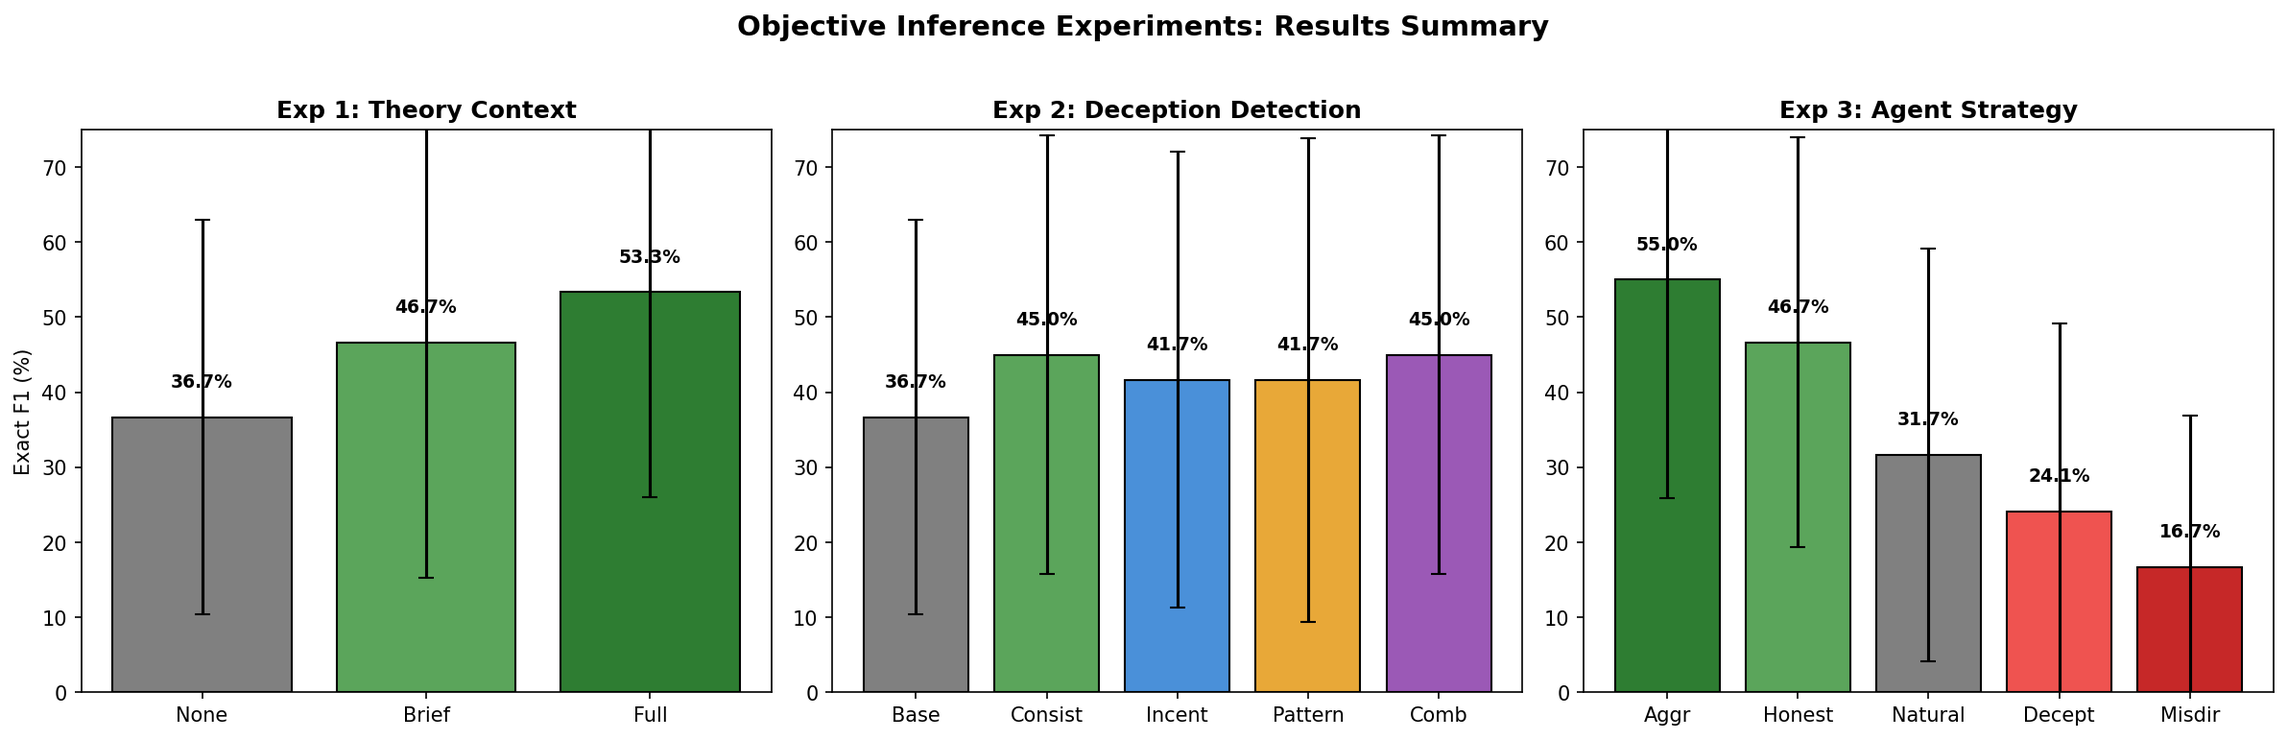
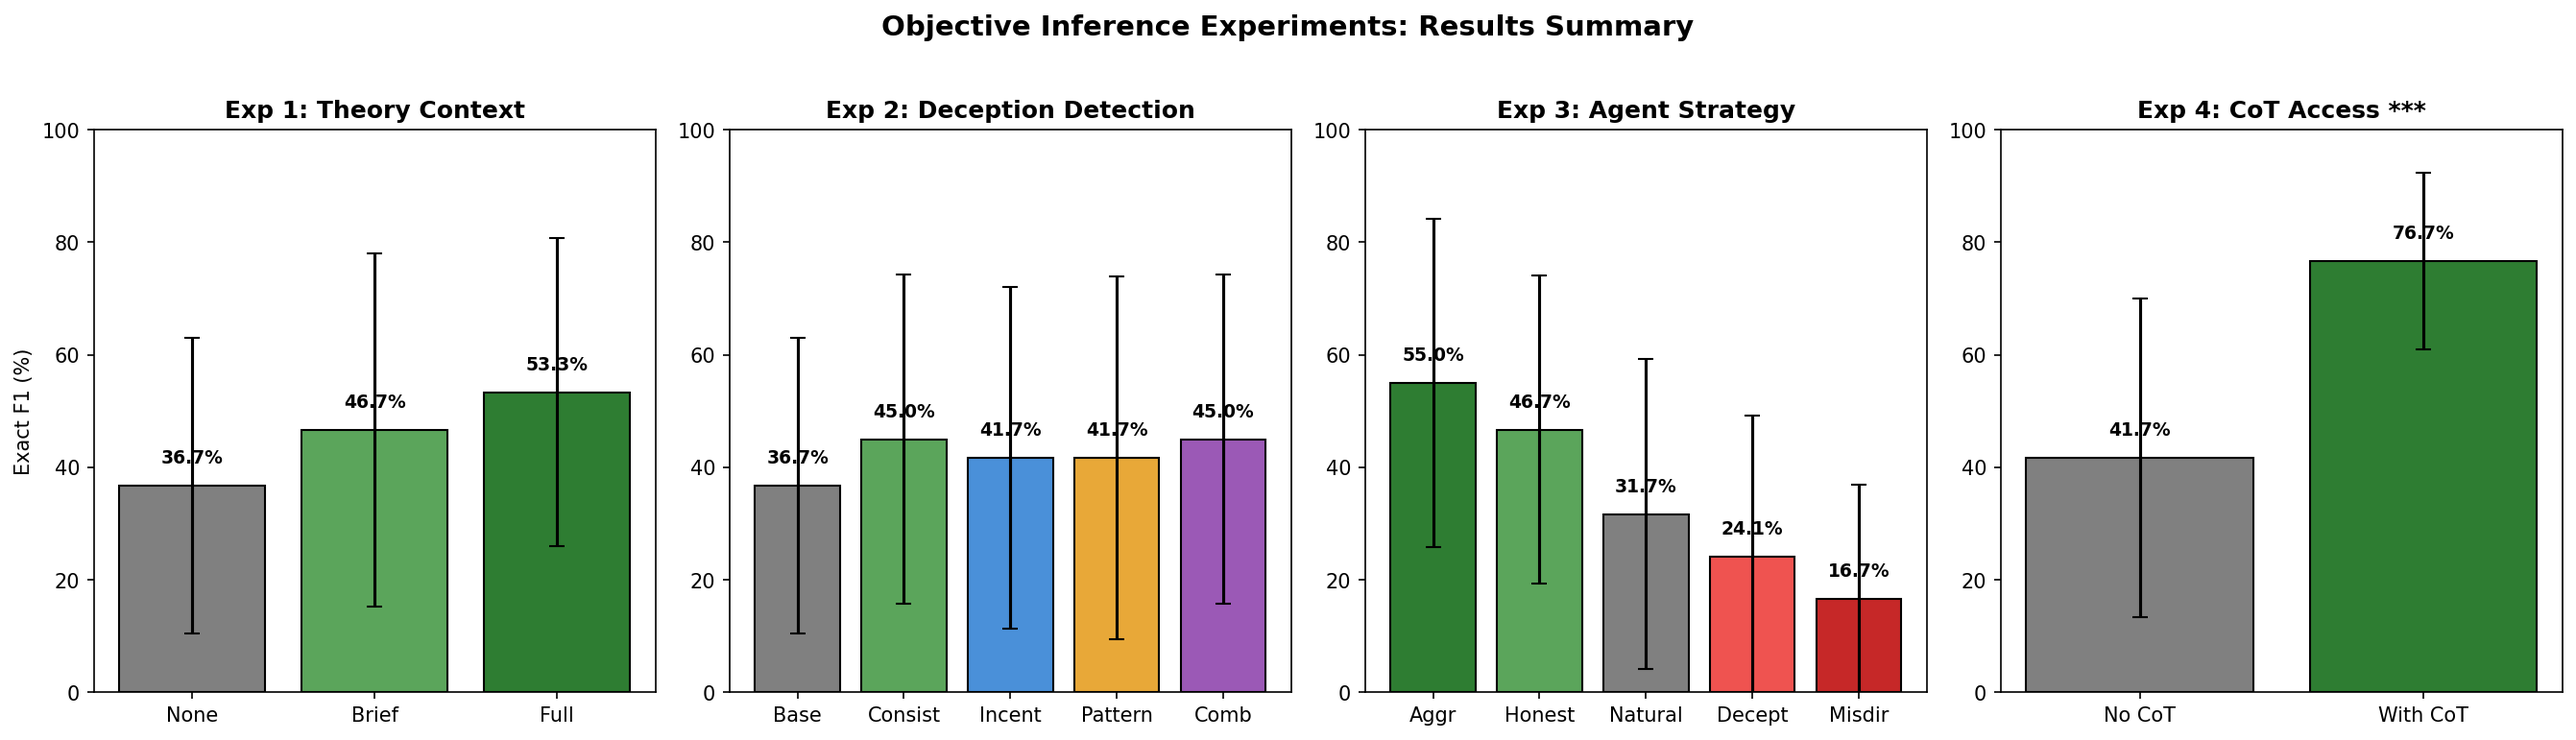
Add CoT access experiment to methodology report
- Added Experiment 4: Chain-of-Thought Access
- CoT access improves Exact F1 from 41.7% to 76.7% (+35%)
- Only statistically significant result (p < 0.001, d = 1.79)
- Updated summary plot to show all 4 experiments
- Regenerated all plots

diff --git a/scripts/generate_methodology_report.py b/scripts/generate_methodology_report.py
@@ -20,6 +20,9 @@ with open("outputs/deception_strategies_experiment/20260221_110535/condition_sta
 with open("outputs/agent_strategy_inference/20260221_134220/condition_stats.json") as f:
     agent_strategy_data = json.load(f)
 
+with open("outputs/cot_access_experiment/20260220_174154/condition_stats.json") as f:
+    cot_data = json.load(f)
+
 
 def plot_theory_context():
     """Plot theory context experiment results."""
@@ -103,9 +106,39 @@ def plot_agent_strategies():
     plt.close()
 
 
+def plot_cot_access():
+    """Plot CoT access experiment results."""
+    fig, ax = plt.subplots(figsize=(6, 5))
+
+    conditions = ["without_cot", "with_cot"]
+    labels = ["Without CoT", "With CoT"]
+
+    means = [cot_data[c]["stats"]["exact_f1"]["mean"] * 100 for c in conditions]
+    stds = [cot_data[c]["stats"]["exact_f1"]["std"] * 100 for c in conditions]
+
+    colors = ['#808080', '#2E7D32']
+    bars = ax.bar(labels, means, yerr=stds, capsize=5, color=colors, edgecolor='black', linewidth=1.2)
+
+    for bar, mean in zip(bars, means):
+        ax.text(bar.get_x() + bar.get_width()/2, bar.get_height() + 3,
+                f'{mean:.1f}%', ha='center', va='bottom', fontsize=12, fontweight='bold')
+
+    ax.set_ylabel('Exact F1 Score (%)', fontsize=12)
+    ax.set_xlabel('Estimator Access to Agent Thinking', fontsize=12)
+    ax.set_title('Experiment 4: Chain-of-Thought Access', fontsize=14, fontweight='bold')
+    ax.set_ylim(0, 100)
+
+    # Add significance annotation
+    ax.annotate('p < 0.001 ***', xy=(0.5, 85), ha='center', fontsize=11, fontweight='bold')
+
+    plt.tight_layout()
+    plt.savefig(REPORT_DIR / "exp4_cot_access.png", dpi=150, bbox_inches='tight')
+    plt.close()
+
+
 def plot_all_results():
-    """Plot all three experiments side by side."""
-    fig, axes = plt.subplots(1, 3, figsize=(16, 5))
+    """Plot all four experiments side by side."""
+    fig, axes = plt.subplots(1, 4, figsize=(18, 5))
 
     # Experiment 1: Theory Context
     ax = axes[0]
@@ -116,7 +149,7 @@ def plot_all_results():
     bars = ax.bar(["None", "Brief", "Full"], means, yerr=stds, capsize=4, color=colors, edgecolor='black')
     ax.set_ylabel('Exact F1 (%)')
     ax.set_title('Exp 1: Theory Context', fontweight='bold')
-    ax.set_ylim(0, 75)
+    ax.set_ylim(0, 100)
     for i, m in enumerate(means):
         ax.text(i, m + 4, f'{m:.1f}%', ha='center', fontsize=9, fontweight='bold')
 
@@ -128,7 +161,7 @@ def plot_all_results():
     colors = ['#808080', '#5BA55B', '#4A90D9', '#E8A838', '#9B59B6']
     bars = ax.bar(["Base", "Consist", "Incent", "Pattern", "Comb"], means, yerr=stds, capsize=4, color=colors, edgecolor='black')
     ax.set_title('Exp 2: Deception Detection', fontweight='bold')
-    ax.set_ylim(0, 75)
+    ax.set_ylim(0, 100)
     for i, m in enumerate(means):
         ax.text(i, m + 4, f'{m:.1f}%', ha='center', fontsize=9, fontweight='bold')
 
@@ -140,7 +173,19 @@ def plot_all_results():
     colors = ['#2E7D32', '#5BA55B', '#808080', '#EF5350', '#C62828']
     bars = ax.bar(["Aggr", "Honest", "Natural", "Decept", "Misdir"], means, yerr=stds, capsize=4, color=colors, edgecolor='black')
     ax.set_title('Exp 3: Agent Strategy', fontweight='bold')
-    ax.set_ylim(0, 75)
+    ax.set_ylim(0, 100)
+    for i, m in enumerate(means):
+        ax.text(i, m + 4, f'{m:.1f}%', ha='center', fontsize=9, fontweight='bold')
+
+    # Experiment 4: CoT Access
+    ax = axes[3]
+    conditions = ["without_cot", "with_cot"]
+    means = [cot_data[c]["stats"]["exact_f1"]["mean"] * 100 for c in conditions]
+    stds = [cot_data[c]["stats"]["exact_f1"]["std"] * 100 for c in conditions]
+    colors = ['#808080', '#2E7D32']
+    bars = ax.bar(["No CoT", "With CoT"], means, yerr=stds, capsize=4, color=colors, edgecolor='black')
+    ax.set_title('Exp 4: CoT Access ***', fontweight='bold')
+    ax.set_ylim(0, 100)
     for i, m in enumerate(means):
         ax.text(i, m + 4, f'{m:.1f}%', ha='center', fontsize=9, fontweight='bold')
 
@@ -158,6 +203,8 @@ if __name__ == "__main__":
     print("  - exp2_deception_strategies.png")
     plot_agent_strategies()
     print("  - exp3_agent_strategies.png")
+    plot_cot_access()
+    print("  - exp4_cot_access.png")
     plot_all_results()
     print("  - all_experiments_summary.png")
     print(f"\nPlots saved to: {REPORT_DIR}")

diff --git a/results/objective_inference_methodology/METHODOLOGY_AND_RESULTS.md b/results/objective_inference_methodology/METHODOLOGY_AND_RESULTS.md
@@ -1,13 +1,13 @@
 # Objective Inference Experiments: Methodology and Results
 
 **Date**: 2026-02-22
-**Total Runtime**: ~55 hours (150 games)
+**Total Runtime**: ~61 hours (170 games)
 
 ---
 
 ## Overview
 
-Three experiments testing factors that affect the accuracy of inferring agent objectives from their communication behavior.
+Four experiments testing factors that affect the accuracy of inferring agent objectives from their communication behavior.
 
 ![All Experiments Summary](all_experiments_summary.png)
 
@@ -153,6 +153,55 @@ How does the communication strategy an agent uses affect how easily an external 
 
 ---
 
+## Experiment 4: Chain-of-Thought Access
+
+### Research Question
+
+Does giving the estimator access to agents' chain of thought (internal reasoning) improve its ability to infer their true objectives?
+
+### Methodology
+
+**Independent Variable**: Whether the estimator can see agents' thinking blocks
+
+| Condition | Description |
+|-----------|-------------|
+| `without_cot` | Estimator sees only agent statements (baseline) |
+| `with_cot` | Estimator sees statements + agent internal reasoning |
+
+**Fixed Parameters**:
+- Objects: 10
+- Rounds: 10
+- Oracle budget: 4
+- Agent complexity: L3 (3 properties per agent)
+- Seeds per condition: 10
+- Total games: 20
+- Model: claude-sonnet-4-20250514
+- Deception strategy: baseline
+- Theory context: none
+
+### Results
+
+![Experiment 4 Results](exp4_cot_access.png)
+
+| Condition | Exact F1 | Std Dev | Property Recall | Confidence | n |
+|-----------|----------|---------|-----------------|------------|---|
+| without_cot | 41.7% | 28.4% | 68.3% | 87.8 | 20 |
+| with_cot | 76.7% | 15.7% | 100.0% | 99.0 | 20 |
+
+### Statistical Significance
+
+| Metric | Value |
+|--------|-------|
+| Difference | +35.0% |
+| t-statistic | 3.99 |
+| p-value | 0.00085 |
+| Cohen's d | 1.79 (very large) |
+| Significant | YES (p < 0.001) |
+
+**Raw Data**: `outputs/cot_access_experiment/20260220_174154/`
+
+---
+
 ## Common Experimental Setup
 
 ### Game Structure
@@ -196,6 +245,7 @@ All experiments used the same 10 seeds: `[42, 123, 456, 789, 101, 202, 303, 404,
 - Experiment 1: `experiments/run_theory_context_experiment.py`
 - Experiment 2: `experiments/run_deception_strategies_experiment.py`
 - Experiment 3: `experiments/run_agent_strategy_inference_experiment.py`
+- Experiment 4: `experiments/run_cot_access_experiment.py`
 
 ### Configuration
 
